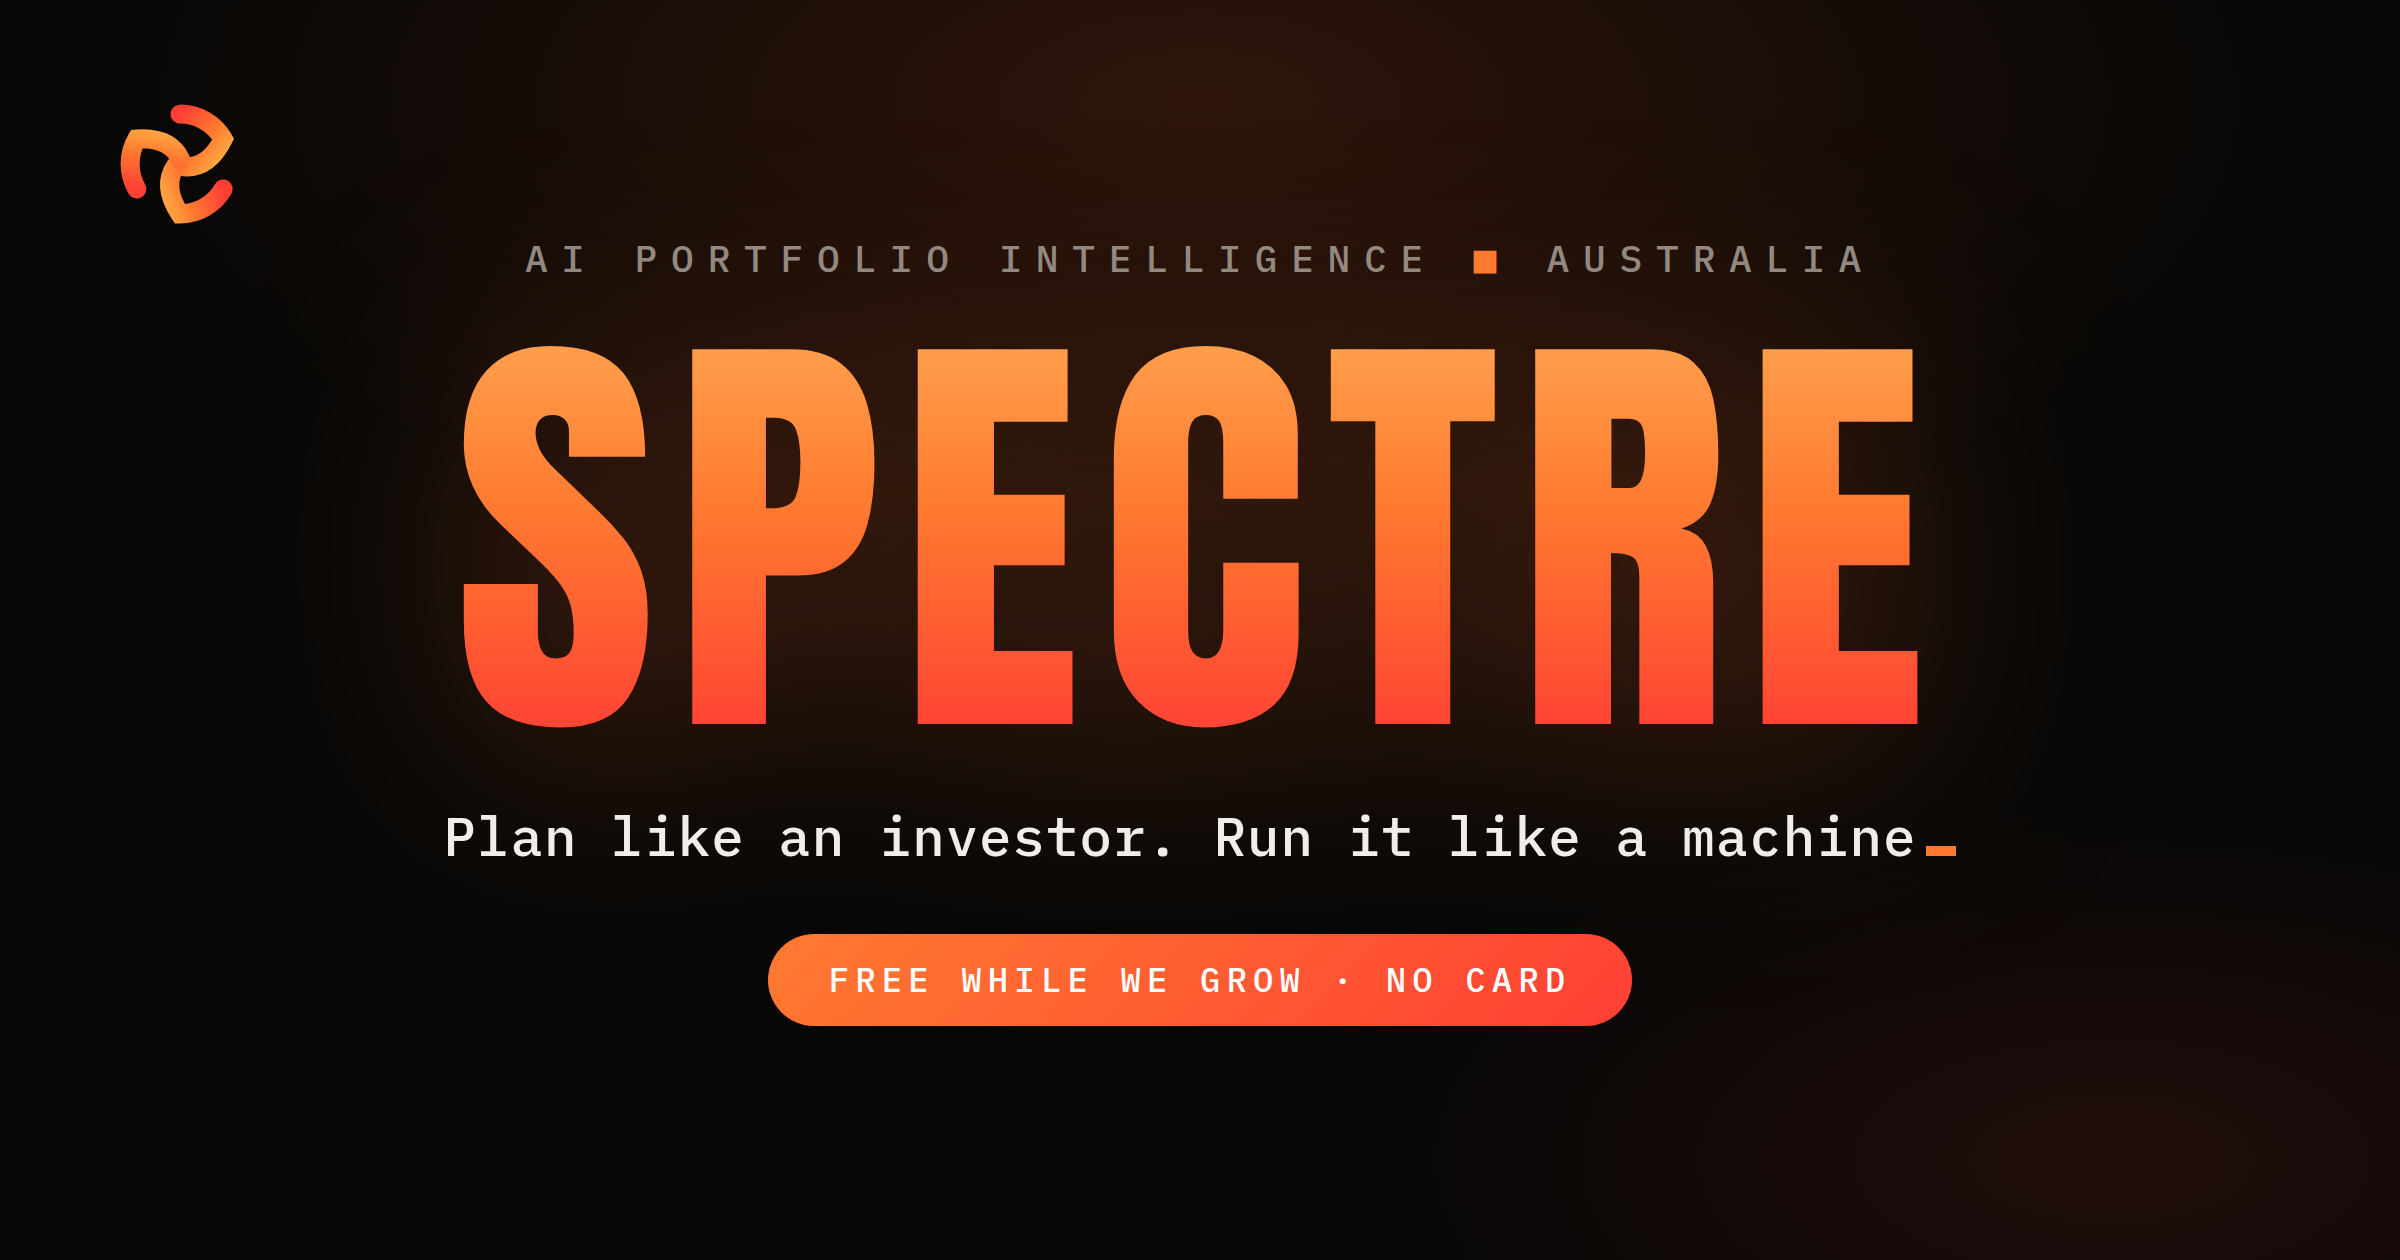
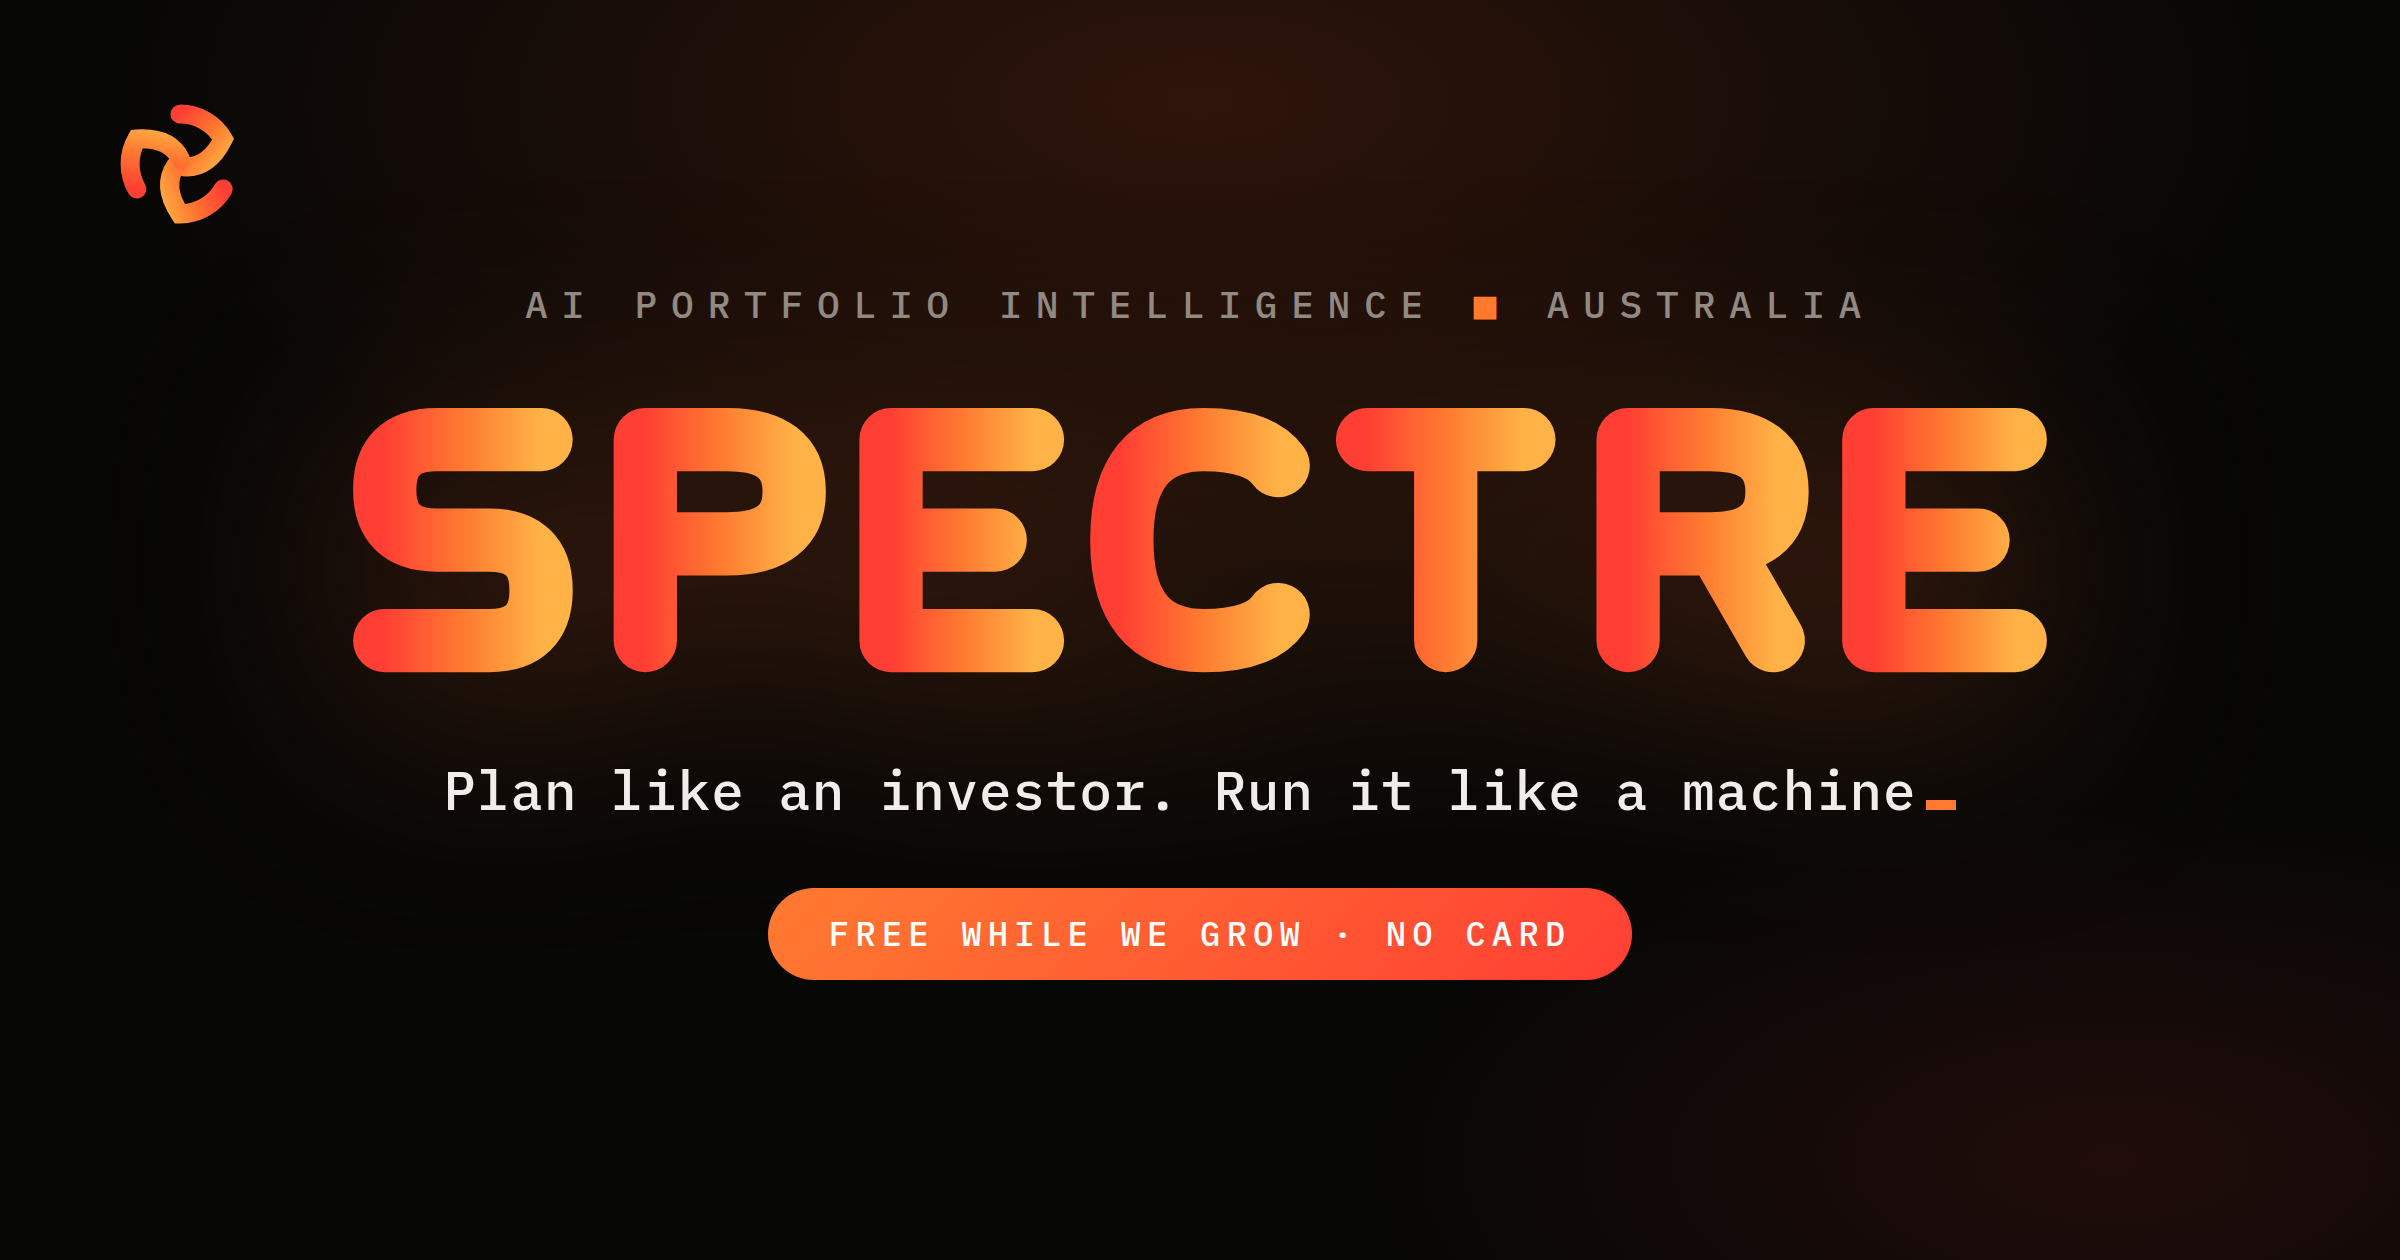
NASA-worm style SPECTRE wordmark + breathing-room pass on the landing page
- New brand identity: a custom worm-style wordmark — uniform rounded
  tube letterforms in the red-orange gradient. Used in the landing nav
  and as the giant hero title; the worm S alone becomes the square
  mark, app icon, and favicon; the share image uses the wordmark.
- Decluttered landing rhythm: section padding up to 170px, grid gaps
  and top margins widened, looser hero line-heights and button spacing,
  bigger gap between copy and cards in the Myrmidon/Scanner splits,
  with proportional mobile values.

Claude-Session: https://claude.ai/code/session_01LmJvMKBYAjZF5e3t9TVDyd

Changed region(s): [[0.125, 0.1857, 0.875, 0.5881], [0.1875, 0.619, 0.8125, 0.8357]]

diff --git a/src/components/marketing/landing-page.module.css b/src/components/marketing/landing-page.module.css
@@ -3559,3 +3559,121 @@
     scroll-margin-top: 235px;
   }
 }
+
+/* ── Worm wordmark brand ── */
+.brandWordmark {
+  display: block;
+  height: 20px;
+  width: auto;
+}
+
+.heroWordmarkImg {
+  display: block;
+  width: min(88vw, 980px);
+  height: auto;
+  margin: 0 auto;
+  filter: drop-shadow(0 12px 60px rgba(255, 63, 52, 0.28));
+}
+
+/* ── Breathing room pass: generous vertical rhythm, calmer density ── */
+.section {
+  padding: 170px 0;
+}
+
+.myrmidonSection,
+.scannerSection {
+  padding: 160px 0;
+}
+
+.aiRevealSection {
+  padding: 170px 0 150px;
+}
+
+.sectionTitle {
+  margin-bottom: 22px;
+}
+
+.sectionSub {
+  margin-bottom: 10px;
+  line-height: 1.75;
+}
+
+.steps,
+.beforeAfter,
+.securityGrid,
+.compareGrid {
+  margin-top: 72px;
+  gap: 26px;
+}
+
+.featureGrid {
+  margin-top: 72px;
+  gap: 14px;
+}
+
+.researchHighlights {
+  margin-top: 64px;
+  gap: 18px;
+}
+
+.researchWindow {
+  margin-top: 64px;
+}
+
+.researchCtaRow {
+  margin-top: 56px;
+}
+
+.myrmidonInner,
+.scannerInner {
+  gap: 96px;
+}
+
+.statsStrip {
+  padding: 34px 0;
+}
+
+.heroSub {
+  margin-bottom: 40px;
+  line-height: 1.8;
+}
+
+.heroActions {
+  margin-bottom: 44px;
+}
+
+.lifecycle {
+  margin-top: 10px;
+}
+
+.faqList {
+  margin-top: 64px;
+}
+
+.ctaSection {
+  padding: 150px 0 130px;
+}
+
+@media (max-width: 960px) {
+  .section {
+    padding: 110px 0;
+  }
+  .myrmidonSection,
+  .scannerSection {
+    padding: 100px 0;
+  }
+  .aiRevealSection {
+    padding: 110px 0 96px;
+  }
+  .steps,
+  .beforeAfter,
+  .securityGrid,
+  .compareGrid,
+  .featureGrid {
+    margin-top: 52px;
+  }
+  .myrmidonInner,
+  .scannerInner {
+    gap: 48px;
+  }
+}

diff --git a/src/components/marketing/landing-page.tsx b/src/components/marketing/landing-page.tsx
@@ -363,10 +363,9 @@ export default function LandingPage({
       </div>
       <nav className={styles.nav}>
         <div className={styles.navInner}>
-          <Link href="/" className={styles.brandRow}>
+          <Link href="/" className={styles.brandRow} aria-label="SPECTRE home">
             {/* eslint-disable-next-line @next/next/no-img-element */}
-            <img src="/spectre-mark.svg" alt="" width={30} height={30} className={styles.brandMark} />
-            <span className={styles.brand}>SPECTRE</span>
+            <img src="/spectre-wordmark.svg" alt="SPECTRE" height={20} className={styles.brandWordmark} />
           </Link>
 
           <div className={styles.navLinks}>
@@ -415,7 +414,10 @@ export default function LandingPage({
               <span className={styles.heroKickerDot} />
               <span>AUSTRALIA</span>
             </div>
-            <h1 className={`${styles.heroWordmark} ${styles.reveal}`}>SPECTRE</h1>
+            <h1 className={`${styles.heroWordmark} ${styles.reveal}`} aria-label="SPECTRE">
+              {/* eslint-disable-next-line @next/next/no-img-element */}
+              <img src="/spectre-wordmark.svg" alt="SPECTRE" className={styles.heroWordmarkImg} />
+            </h1>
             <p className={`${styles.heroTag} ${styles.reveal}`}>
               Plan like an investor. Run it like a machine<span className={styles.caret} aria-hidden="true" />
             </p>
